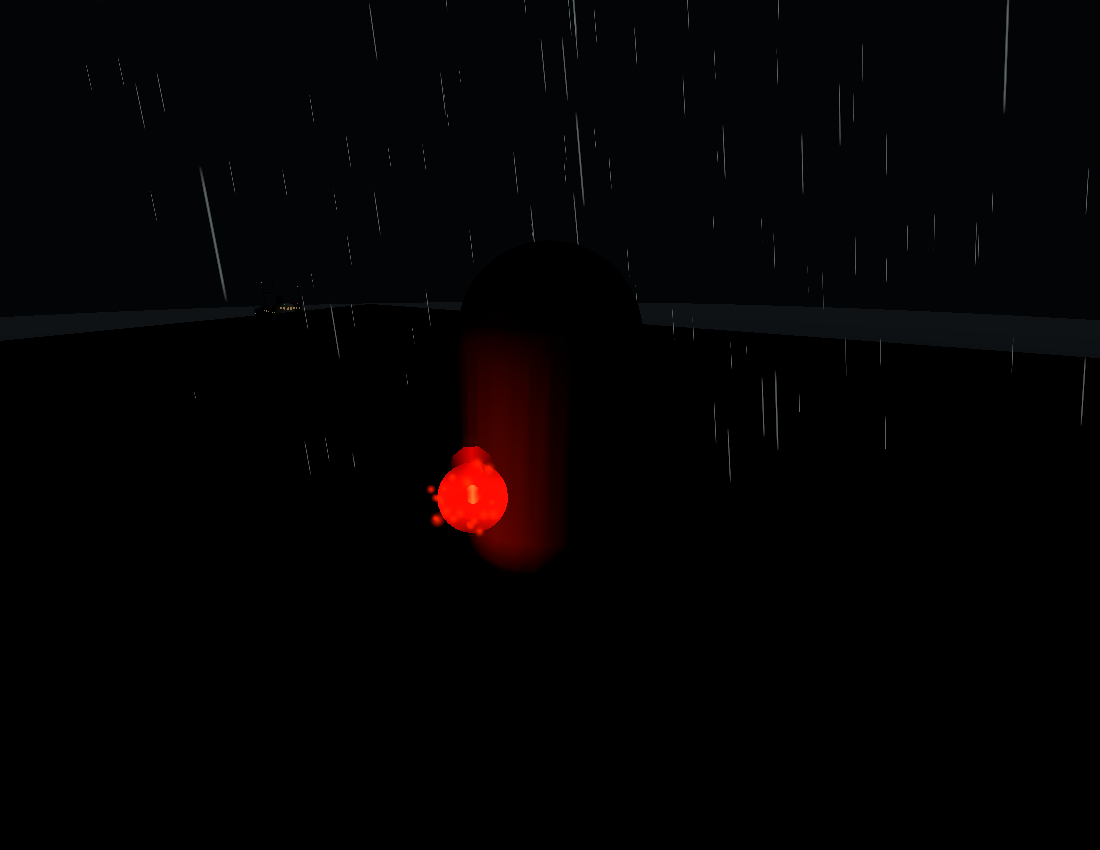
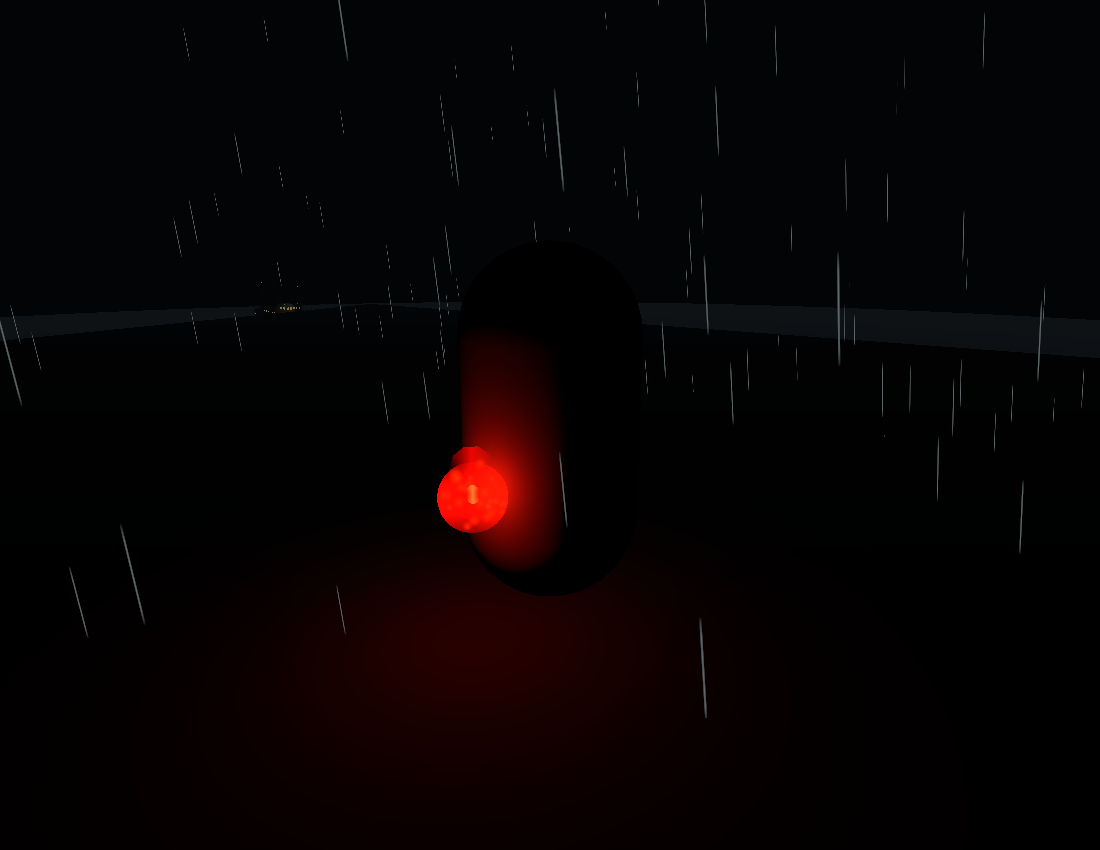
fix: retain validated per-pixel Quest lights and recapture beam (Refs #143)

diff --git a/Docs/Verification/S5/ScareControls/README.md b/Docs/Verification/S5/ScareControls/README.md
@@ -4,7 +4,7 @@ Implemented on sprint-5. This is the controls/weapon foundation only. The new Da
 
 - Hold right-controller A while walking: +60% speed for 4.5 seconds. Release to refill over 3 seconds. Below 15%: one gasp and light haptic. Arm-swing run was removed. X holds breath; Y/wrist/B recall remains. Menu, briefing and possession cannot run.
 - Day 1 oil remains unlimited in Campaign and Survival. Pickup teaches the exception; later days teach LOW versus HIGH and refilling from the F2 oil can, with a low-oil reminder. Water still extinguishes a submerged lamp.
-- Lantern is a forward 85° spot / 55° inner cone, feathered cookie, LOW 0.8 m / HIGH 1.5 m; turns with the tool, not the head. Quest asset now retains the already-approved per-pixel setting previously applied only by the build setup.
+- Lantern is a forward 85° spot / 55° inner cone, feathered cookie, LOW 0.8 m / HIGH 1.5 m; turns with the tool, not the head. Quest asset retains the existing Per Pixel setting (Unity enum value 1), limit 2.
 - Flare travels 50 m/s with slight drop; bounded swept collision ignores keeper/gun geometry and catches a moving target. Walls take precedence. One shared round; host collision, replicated trajectory/impact. Red trail, muzzle flash/crack/kick, hit burst with up to 24 sparks and burn/collapse for the existing apparition; misses burn 8 seconds. One temporary shadowless point light is documented in QuestQuality.md.
 - Fixed a live test finding: flare flight had depended on the paused watch clock. It now has its own host-owned replicated clock, including during start grace. X input is a short host-owned duty lease, not a stuck toggle.
 - Network: **LK-S5-SCARES1 / LK-Lab-Coop-v51**. Both players must update (breath bitmask and independent flare clock added).
@@ -35,3 +35,5 @@ Both-hand tool direction, A stamina timing with held tools, gasp/kick volume and
 4. Hold X: keeper breathing stops; release: it returns. Check B recall and Y/wrist recall still work.
 5. Campaign DEV Day 2: take the House-bench flare pistol. Grip and trigger once at a wall/floor; see the red flight and burning miss, hear the crack and feel the kick. Retry for the other hand. Check the Day 2 lantern oil/refill hint too.
 6. With both headsets on this version, have the guest shoot during an existing apparition. Both should see the same hit/burn/retreat, or the same burning miss. The new nightmare/cursed-ship dev buttons are not available yet.
+
+Build guard caught and rejected an incorrect numeric enum edit in the first build attempt; restored the existing Per Pixel setting before delivery and repeated the visual capture at the corrected lamp distance. No failed build was installed.

diff --git a/Docs/Design/QuestQuality.md b/Docs/Design/QuestQuality.md
@@ -89,4 +89,4 @@ Rebake: powered two maps / 4.82 MiB, emergency two maps / 4.49 MiB; 444 probes, 
 
 The existing moving lantern lights are now 85° forward spots (55° inner cone), with a small feathered cookie. They follow the held tool, not the head. No light is added for this conversion. Day 1 oil remains unlimited in both modes.
 
-The flare adds **one temporary shadowless point light**, range 3 m, intensity 2.2 while flying; a dimmer remnant fades over 8 s after impact. One shared pistol has one round per night. This is an explicit exception to the regular moving-lantern budget: at most two lanterns plus one temporary flare light. Fixed House/tower bulbs remain baked. The projectile uses bounded line meshes, one impact mesh and at most 24 short-lived sparks; no bloom. The checked-in Quest asset now retains Per Pixel (limit 2), matching the existing build-time baseline rather than reverting to vertex lighting between builds. Peak-storm Quest GPU/CPU with two HIGH lanterns + flare is NOT VERIFIED and stays in DEVICE CHECKS PENDING.
+The flare adds **one temporary shadowless point light**, range 3 m, intensity 2.2 while flying; a dimmer remnant fades over 8 s after impact. One shared pistol has one round per night. This is an explicit exception to the regular moving-lantern budget: at most two lanterns plus one temporary flare light. Fixed House/tower bulbs remain baked. The projectile uses bounded line meshes, one impact mesh and at most 24 short-lived sparks; no bloom. Additional Lights stays Per Pixel (serialized value 1), limit 2, without shadows. Peak-storm Quest GPU/CPU with two HIGH lanterns + flare is NOT VERIFIED and stays in DEVICE CHECKS PENDING.

diff --git a/Docs/Design/Next.md b/Docs/Design/Next.md
@@ -16,7 +16,7 @@ Worktree `/Users/aneeshvasamreddy/LighthouseKeepers-M3`. `git switch sprint-5`; 
 
 Focused checks: `python3 artifacts/s5/modes/check.py DreadPlaytestTests FlareTests LanternTests SurvivalModeTests VoicePassTests StoryImportTests CoopCommandWindowTests CrewRecoveryTests QualityBaselineTests`. Play fixture: `python3 artifacts/s5/scare-scenes/start.py`, then Pipeline `run_script` entries `RunFlareTests.Begin` and `VisualProbe.Begin` from the files in `artifacts/s5/scare-scenes`; output paths must be fresh. Two-Editor fixture: `python3 artifacts/s5/scare-scenes/crew.py` with both Editors open and peer synced. Physical test platform is test-only, never serialized. Do not run a second fixture concurrently. A CoreAudio crash happened once on peer restart; preserve recovery backups and close only that test Editor's reporter.
 
-Build scripts use fresh backup directories; never reuse a previous build-backup over newer source. Part 0 scripts/receipts: `artifacts/s5/scare-scenes/{build.py,deliver.py,build/}`. Completed build source must be clean before starting. Do not launch the Quest.
+Build scripts use fresh backup directories; never reuse a previous build-backup over newer source. Part 0 scripts/receipts: `artifacts/s5/scare-scenes/{build.py,deliver.py,build-final/}`. Completed build source must be clean before starting. Do not launch the Quest.
 
 ## DEVICE CHECKS PENDING
 
